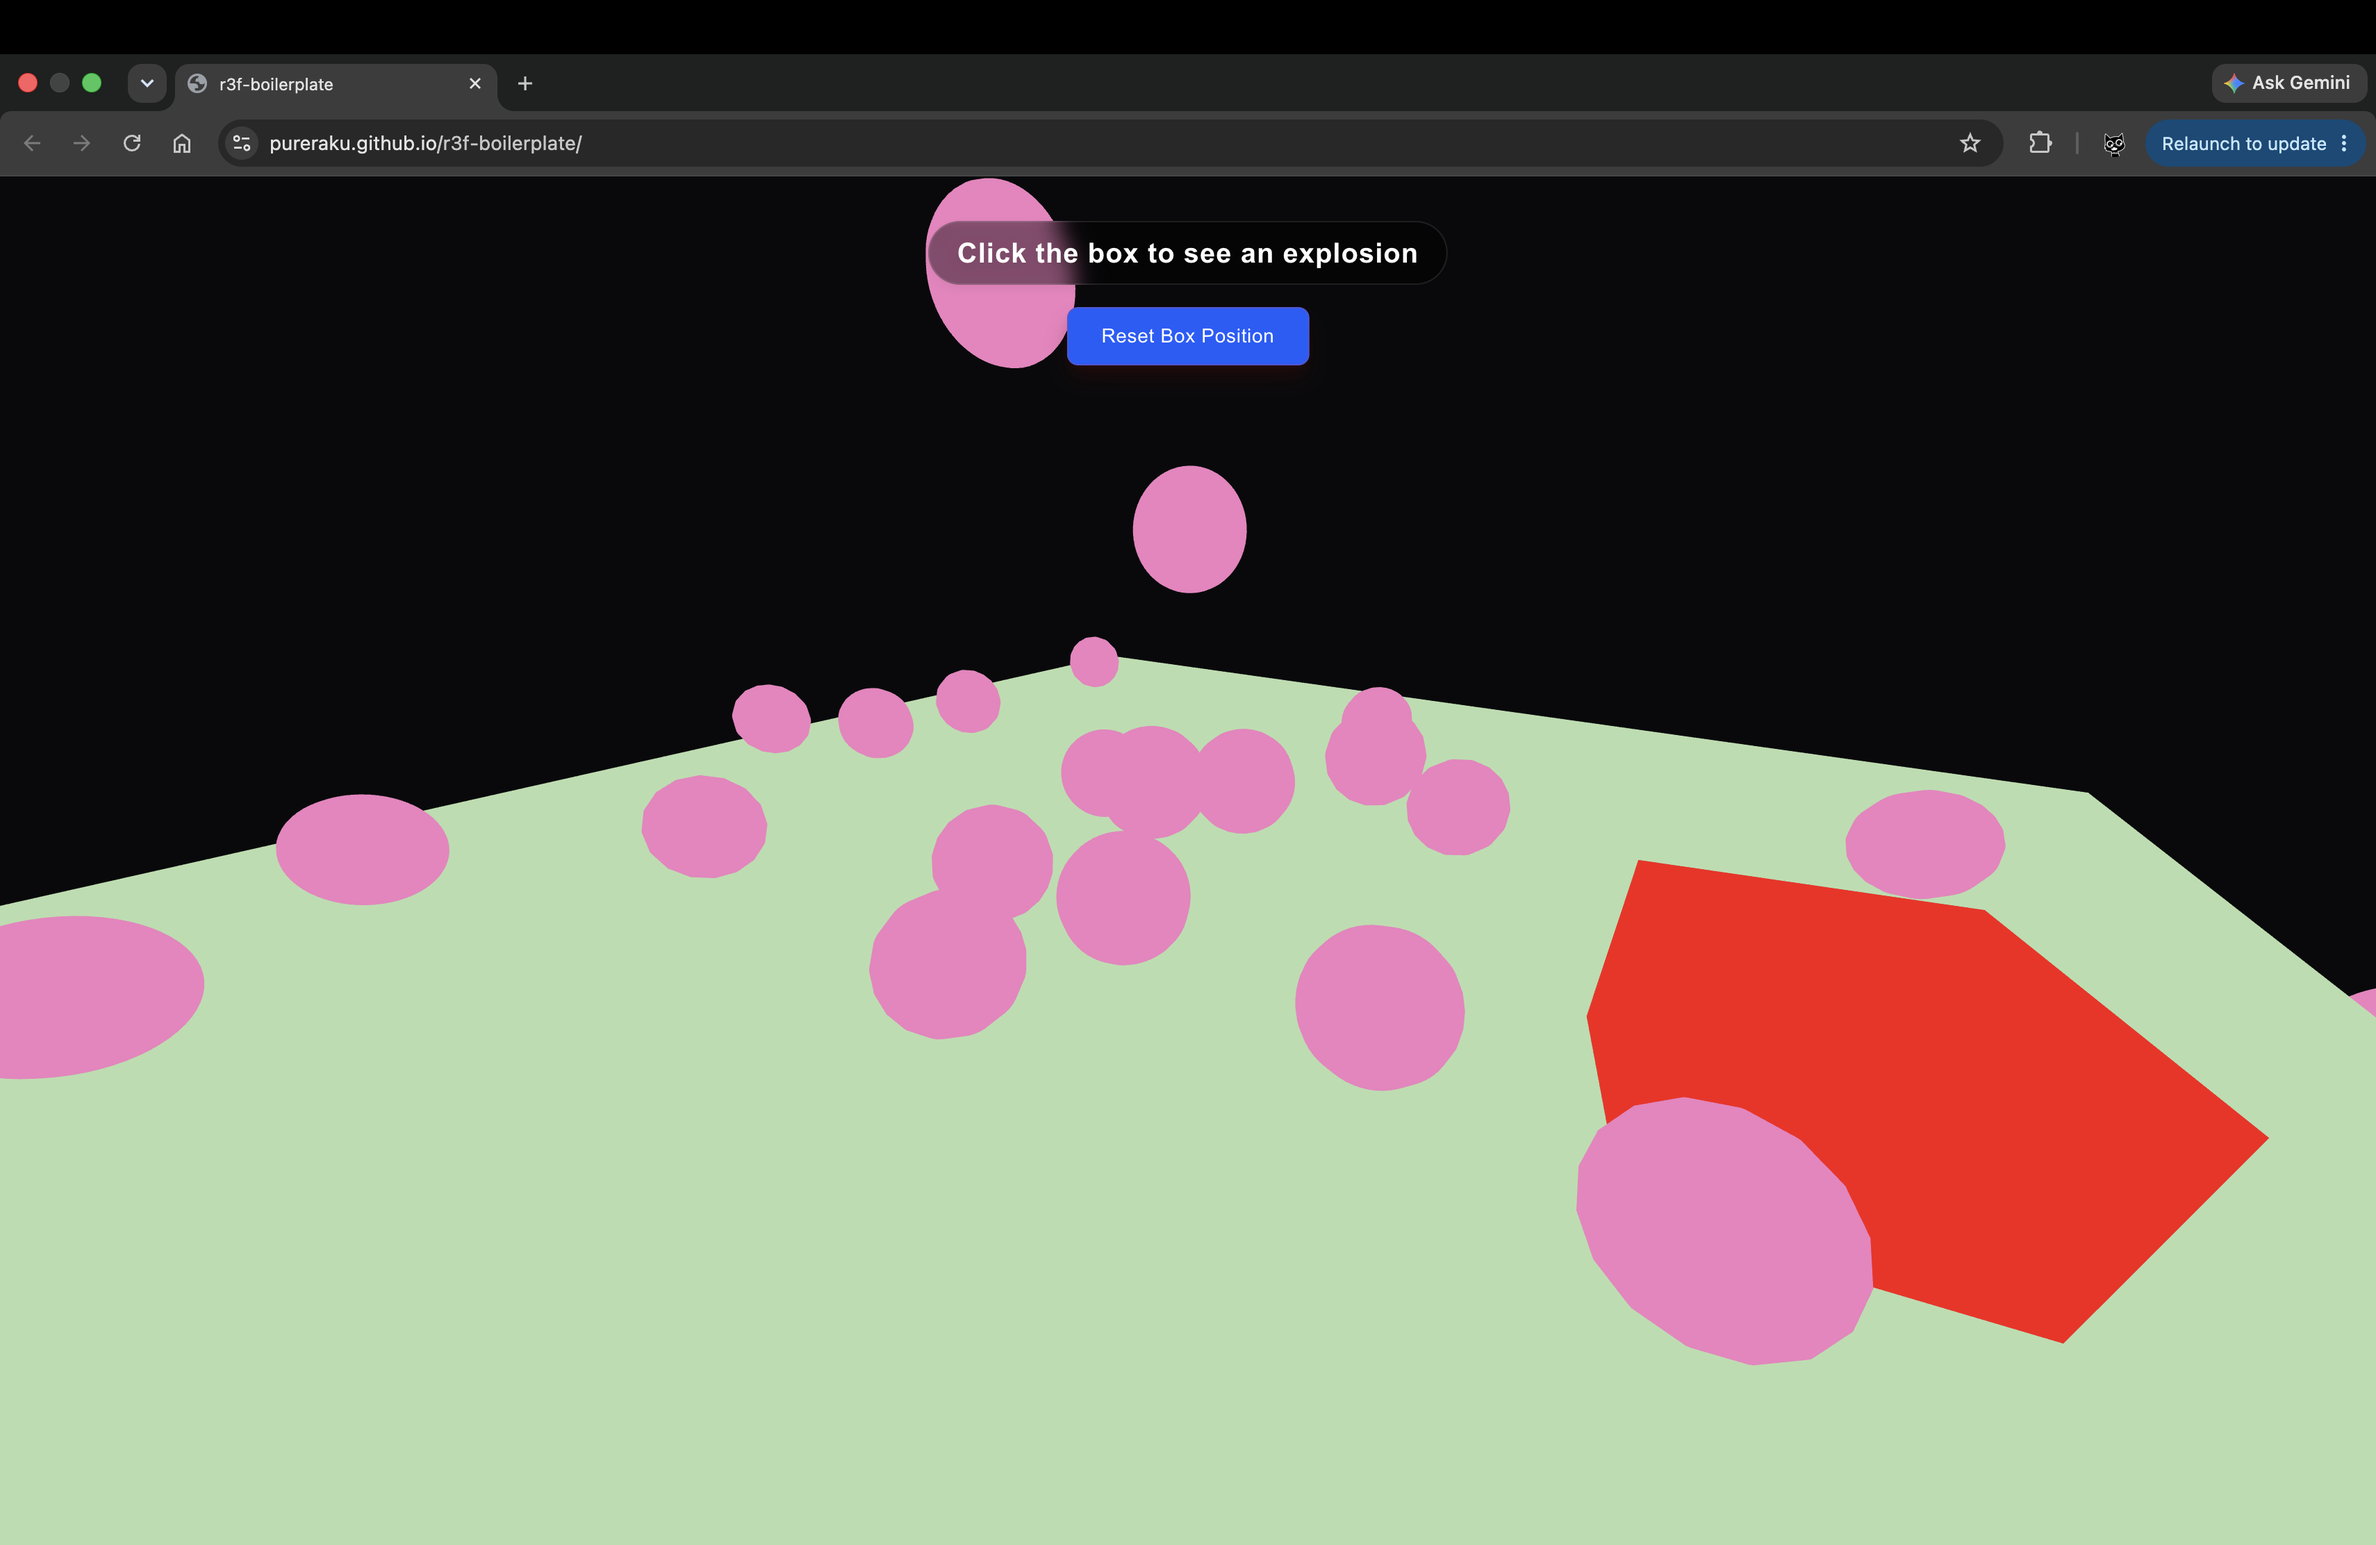
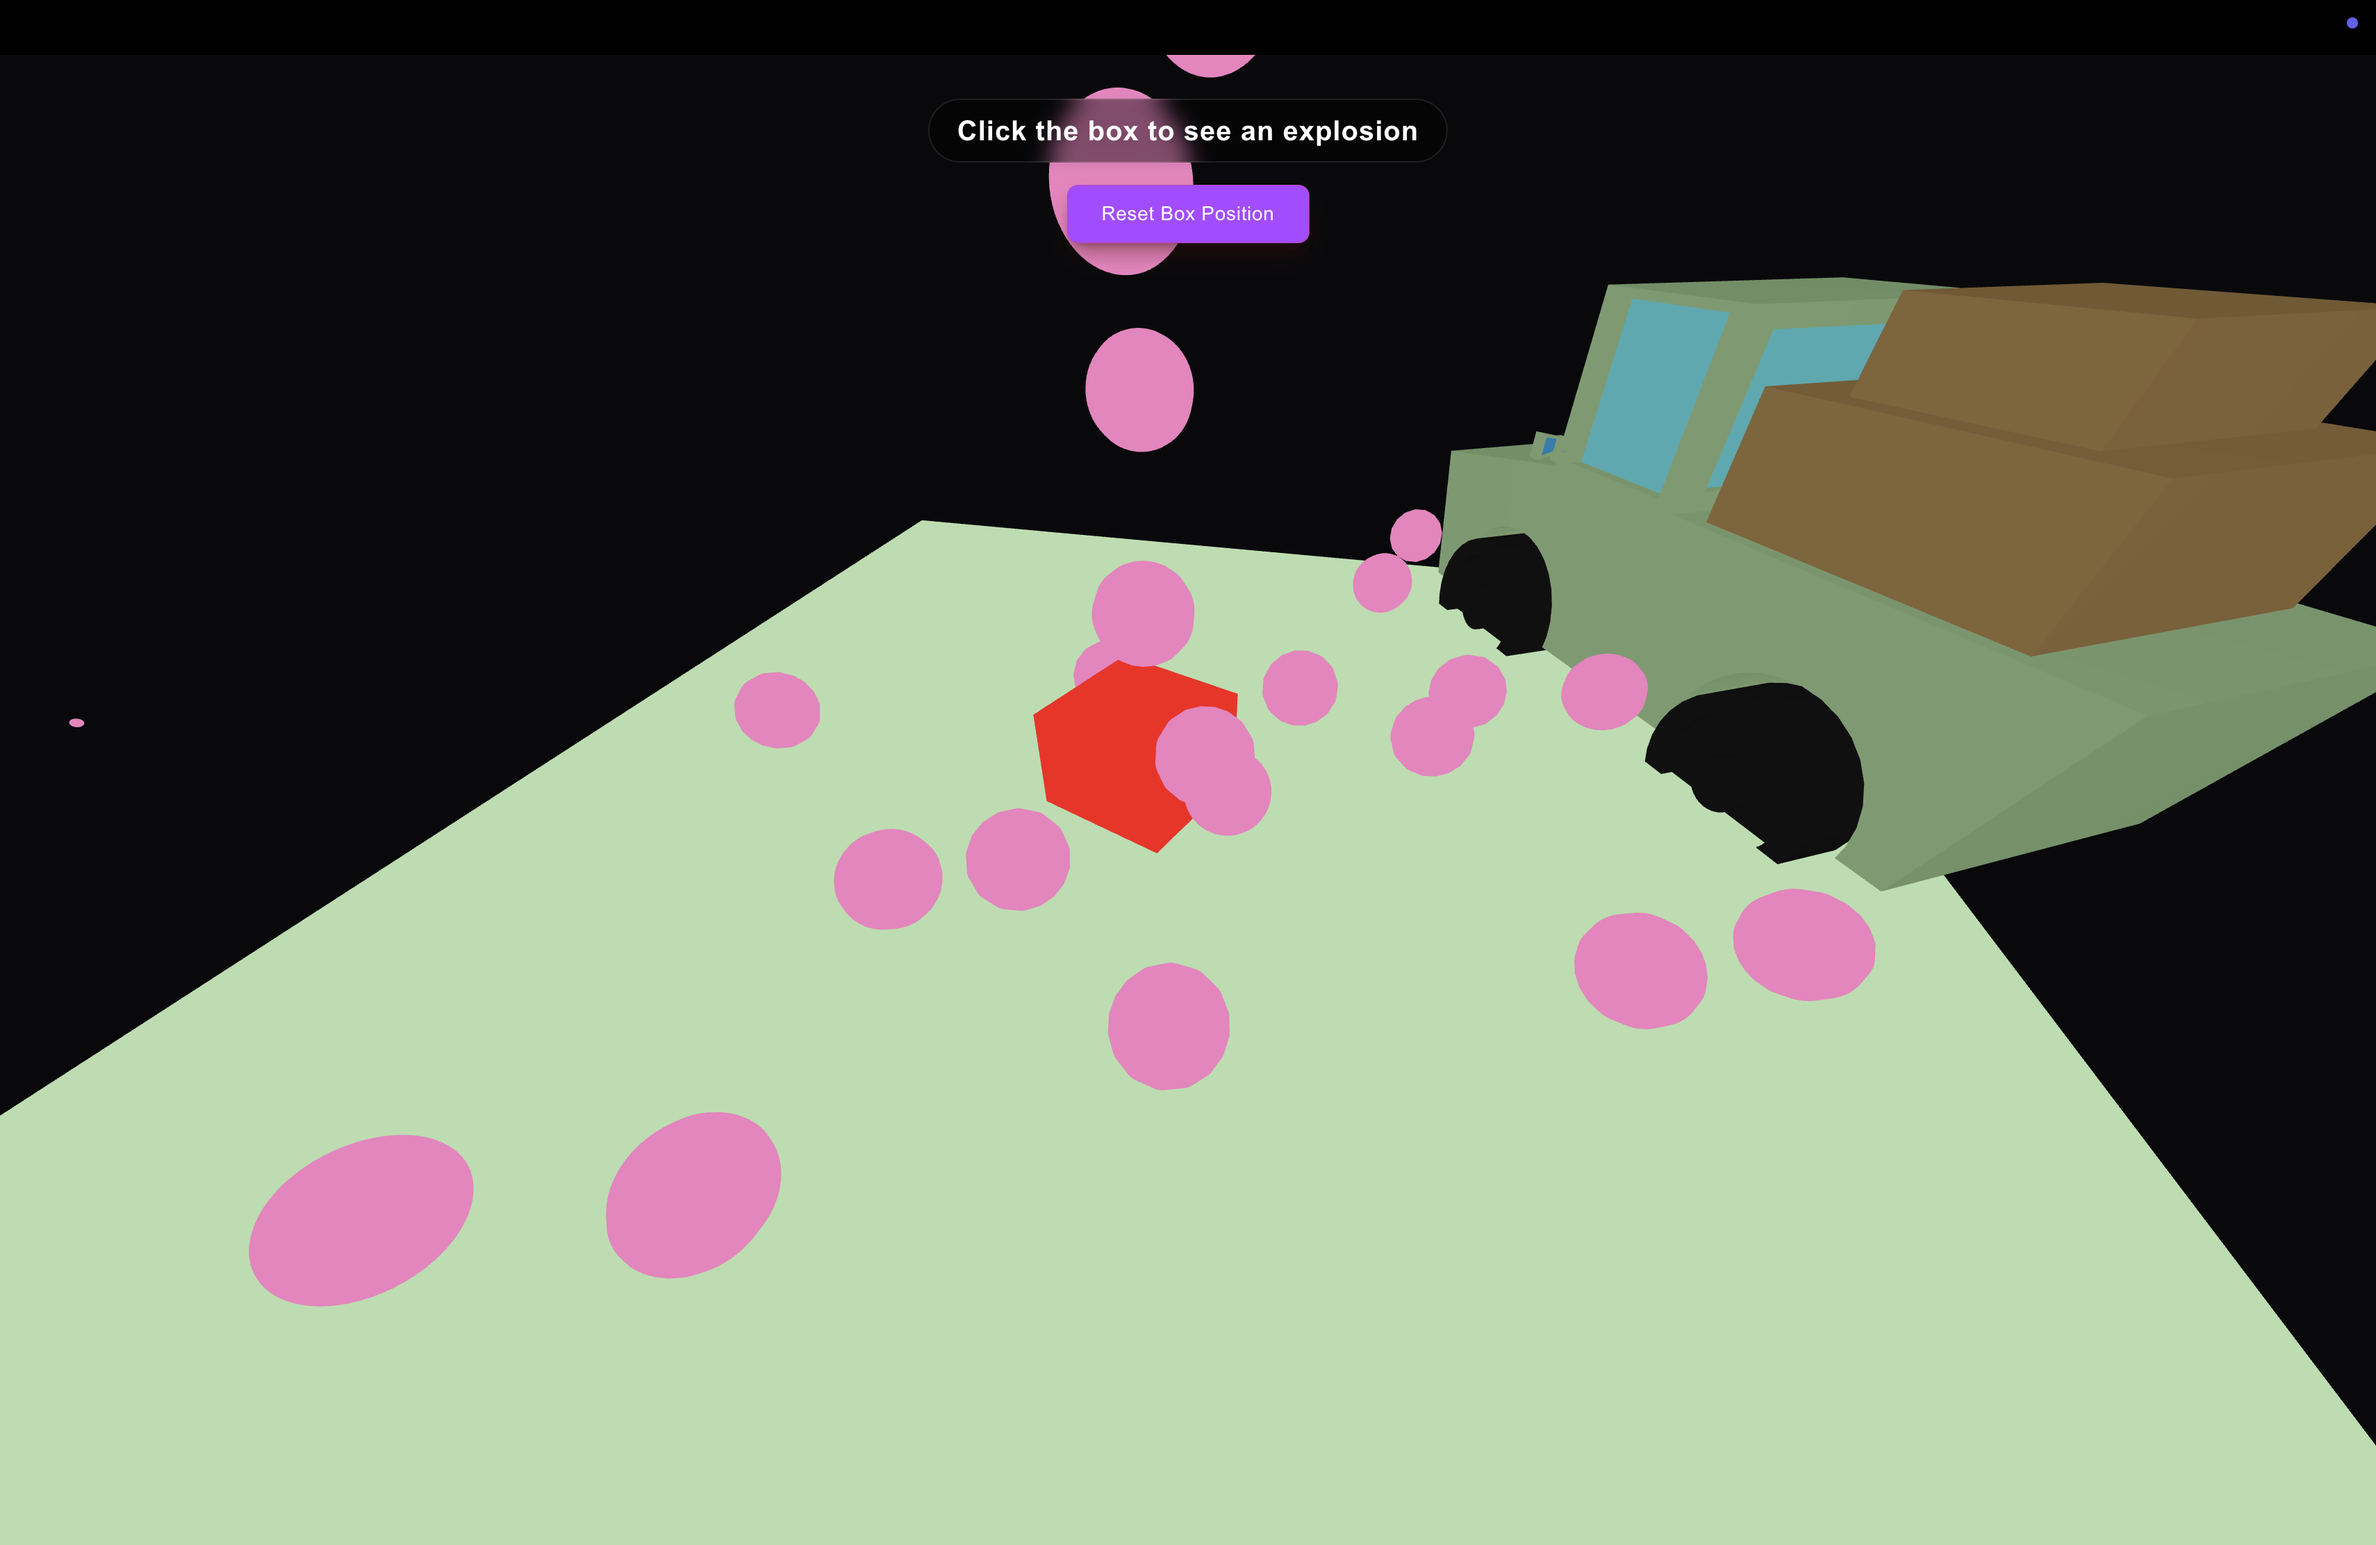
feat(model): add truck-kun to scene. (i made that model btw <3)

diff --git a/components/Scene.tsx b/components/Scene.tsx
@@ -1,11 +1,12 @@
 "use client";
-import { useState, useEffect } from "react";
+import { useState, useEffect, Suspense } from "react";
 import { Canvas } from "@react-three/fiber";
 import { OrbitControls } from "@react-three/drei";
 import { Physics } from "@react-three/rapier";
 import Box from "./Box";
 import Plane from "./Plane";
 import Sphere from "./Sphere";
+import Model from "./Car"; 
 
 interface FallingSphereData {
   id: number;
@@ -37,14 +38,17 @@ export default function Scene() {
   }, []);
 
   return (
-    <Canvas camera={{ position:[10,12,-2], fov: 90 }}>
+    <Canvas camera={{ position: [10, 12, -2], fov: 90 }}>
       <ambientLight intensity={1.5} />
-      <Physics >
+      <Physics>
         <Box />
         <Plane />
         {spheres.map((sphere) => (
           <Sphere key={sphere.id} position={sphere.position} />
         ))}
+        <Suspense fallback={null}>
+           <Model />
+        </Suspense>
       </Physics>
       <OrbitControls makeDefault />
     </Canvas>

diff --git a/components/Car.tsx b/components/Car.tsx
@@ -1,0 +1,13 @@
+"use client";
+import { useGLTF } from '@react-three/drei';
+import { RigidBody } from '@react-three/rapier';
+
+export default function Model() {
+    const { scene } = useGLTF('/r3f-boilerplate/models/gadi.glb')
+  
+  return (
+    <RigidBody type="fixed" colliders="trimesh" rotation={[0,-Math.PI/3,0]}>
+      <primitive object={scene} scale={1.5} position={[-10, 0, 2]} />
+    </RigidBody>
+  );
+}
